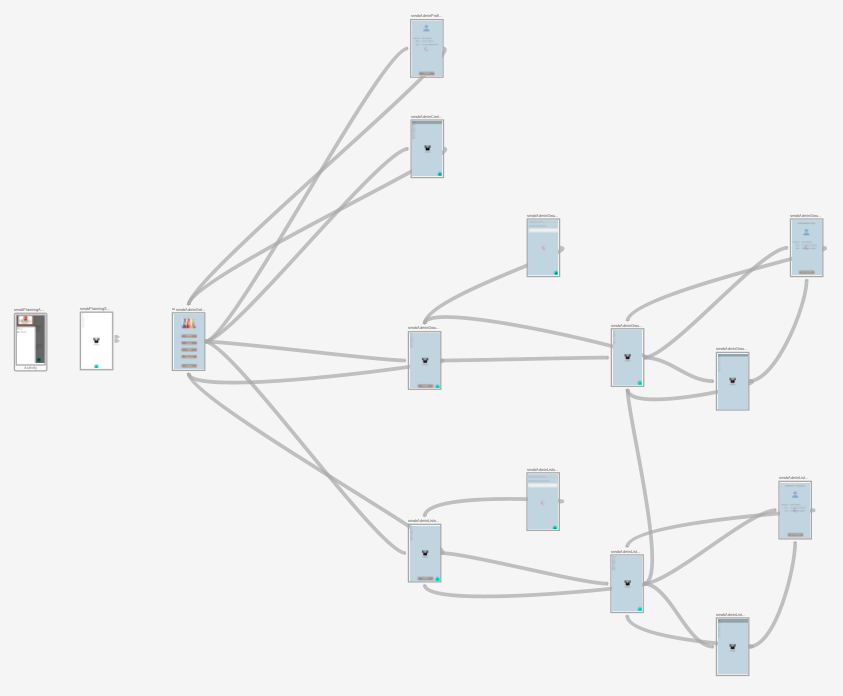
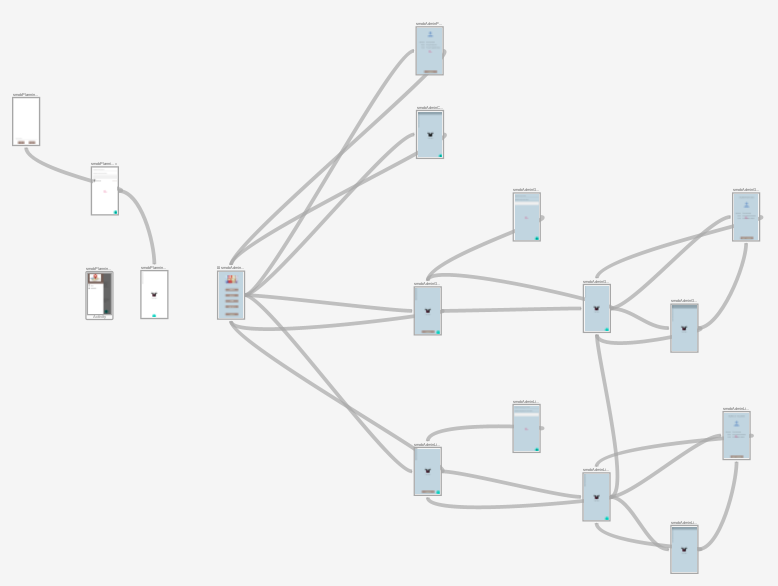
Adjusted overview document to reflect the addition of administration handling.

diff --git a/doc/SmobOverview.md b/doc/SmobOverview.md
@@ -17,6 +17,7 @@ See [Design](./Design.md) for more details about the design aspects of the app.
 
 <div style="display: flex; align-items: center; justify-content: space-around;">
   <img alt="ShopMob Login Screen" height="300" src="https://raw.githubusercontent.com/fwornle/ShopMob/main/doc/images/sm_login_0.PNG" title="Login Screen"/>
+  <img alt="ShopMob Login Screen" height="300" src="https://raw.githubusercontent.com/fwornle/ShopMob/main/doc/images/sm_login_1.png" title="Login Screen"/>
   <img alt="ShopMob Login Screen" height="300" src="https://raw.githubusercontent.com/fwornle/ShopMob/main/doc/images/sm_login.PNG" title="Login Screen"/>
   <img alt="ShopMob Login Screen" height="300" src="https://raw.githubusercontent.com/fwornle/ShopMob/main/doc/images/sm_login_2fa.PNG" title="Login Screen"/>
 </div>
@@ -35,12 +36,11 @@ as shown below.
 
 <div style="display: flex; align-items: center; justify-content: space-around;">
   <img alt="SmobLists screen" height="300" src="https://raw.githubusercontent.com/fwornle/ShopMob/main/doc/images/sm_lists.PNG" title="SmobLists"/>
+  <img alt="SmobLists screen" height="300" src="https://raw.githubusercontent.com/fwornle/ShopMob/main/doc/images/sm_lists_empty.png" title="SmobLists"/>
   <img alt="SmobLists screen, no data" height="300" src="https://raw.githubusercontent.com/fwornle/ShopMob/main/doc/images/sm_backend_missing_1.PNG" title="SmobLists, no data"/>
 </div>
 
-When the connection to the backend is established, the app downloads all shopping lists the user has subscribed to. Note that, 
-at the writing of this document (Jan 2022), user groups have yet to be established - at present, all shopping lists are 
-presented to all users on all devices.
+When the connection to the backend is established, the app downloads all shopping lists the user has subscribed to. New users have commonly not been added to any groups yet. This is indicated on the 'empty' list screen. 
 
 ##### SmobShop - the stores defined in ShopMob 
 
@@ -181,6 +181,82 @@ Alexa App (/Skill) does not provide shared access to the shopping list, nor mult
 A future extension of the app will provide an Alexa Skill to be able to "speak to Alexa" in order to control what items go 
 on which list (in the backend). Editing a shopping list via the app is therefore thought as a secondary use case, as it is much 
 more tedious to do so via the app as it will be using Alexa's ability to make sense of the user's utterances.
+
+##### Administration screens
+
+The user can switch to the _administaration_ screens of ShopMop via the drawer menu on the main (Smob lists) screen:
+
+<div style="display: flex; align-items: center; justify-content: space-around;">
+  <img alt="SmobProduct list" height="300" src="https://raw.githubusercontent.com/fwornle/ShopMob/main/doc/images/sm_drawer.PNG" title="SmobShop switch to admin mode"/>
+  <img alt="SmobProduct list" height="300" src="https://raw.githubusercontent.com/fwornle/ShopMob/main/doc/images/sm_admin.png" title="SmobAdmin selection screen"/>
+</div>
+
+The main administration screen allows selection of
+
+- Profile (currently logged in User - contact details)
+- Groups (management of SmobGroups)
+- Lists (management of SmobLists - the actual shopping lists)
+- Contacts (import of locally stored Contacts from the device the app runs on)
+
+There are quite a few administration screens, as can be seen from the following _navigration graph_.
+
+<div style="display: flex; align-items: center; justify-content: space-around;">
+  <img alt="SmobProduct Administration" height="300" src="https://raw.githubusercontent.com/fwornle/ShopMob/main/doc/images/nav_graph_admin.PNG" title="SmobShop administration screens"/>
+</div>
+
+
+
+###### Profile
+
+The _profile_ menu presents all information about the currently logged-in user. This information is obtained when logging into ShopMob. When employing login via a _federated ID provider_ this information is obtained from the chosen provider (eg. facebook, google, GitHub, ...).
+
+<div style="display: flex; align-items: center; justify-content: space-around;">
+  <img alt="SmobProduct list" height="300" src="https://raw.githubusercontent.com/fwornle/ShopMob/main/doc/images/sm_admin_profile.png" title="SmobAdmin Profile"/>
+</div>
+
+Affiliation of the currently logged-in user determines which SmobLists are shown in _planning_ and _shopping_ mode.
+
+###### Groups
+
+The _groups_ management screen displays all known groups (globally) and allows new groups to be created (plus button).
+
+<div style="display: flex; align-items: center; justify-content: space-around;">
+  <img alt="SmobProduct list" height="300" src="https://raw.githubusercontent.com/fwornle/ShopMob/main/doc/images/sm_admin_groups.png" title="SmobAdmin Groups"/>
+  <img alt="SmobProduct list" height="300" src="https://raw.githubusercontent.com/fwornle/ShopMob/main/doc/images/sm_admin_groups_new_1.png" title="SmobAdmin Groups"/>
+  <img alt="SmobProduct list" height="300" src="https://raw.githubusercontent.com/fwornle/ShopMob/main/doc/images/sm_admin_groups_new_2.png" title="SmobAdmin Groups"/>
+</div>
+
+Once a group has been selected, members can be added from the list of all users which are known to the app. At present (September 2022), this still presents all users known to ShopMob (globally). For privacy reasons, this will have to be modified in the future.
+
+<div style="display: flex; align-items: center; justify-content: space-around;">
+  <img alt="SmobProduct list" height="300" src="https://raw.githubusercontent.com/fwornle/ShopMob/main/doc/images/sm_admin_group_select_member.png" title="SmobAdmin Groups"/>
+  <img alt="SmobProduct list" height="300" src="https://raw.githubusercontent.com/fwornle/ShopMob/main/doc/images/sm_admin_groups_add_member_1.png" title="SmobAdmin Groups"/>
+  <img alt="SmobProduct list" height="300" src="https://raw.githubusercontent.com/fwornle/ShopMob/main/doc/images/sm_admin_groups_add_member_2.png" title="SmobAdmin Groups"/>
+</div>
+
+###### Lists
+
+The _lists_ management screen displays SmobLists of those groups, the currently logged-in user is a member of. 
+
+<div style="display: flex; align-items: center; justify-content: space-around;">
+  <img alt="SmobProduct list" height="300" src="https://raw.githubusercontent.com/fwornle/ShopMob/main/doc/images/sm_admin_lists.png" title="SmobAdmin Lists"/>
+  <img alt="SmobProduct list" height="300" src="https://raw.githubusercontent.com/fwornle/ShopMob/main/doc/images/sm_admin_list_groups.png" title="SmobAdmin Lists"/>
+  <img alt="SmobProduct list" height="300" src="https://raw.githubusercontent.com/fwornle/ShopMob/main/doc/images/sm_admin_list_groups_add.png" title="SmobAdmin Lists"/>
+</div>
+
+It allows new lists to be created as well as groups to be added to a list. All groups (globally) are displayed when selecting a group to be added to a list.  
+
+###### Contacts
+
+The _contacts_ management screen retrieves all contacts stored on the device ShopMop is currently running on (eg. phone contacts). The user has to grant permission to access contacts.  
+
+<div style="display: flex; align-items: center; justify-content: space-around;">
+  <img alt="SmobProduct contacts" height="300" src="https://raw.githubusercontent.com/fwornle/ShopMob/main/doc/images/sm_admin_contacts_permissions.png" title="SmobAdmin Contacts"/>
+  <img alt="SmobProduct contacts" height="300" src="https://raw.githubusercontent.com/fwornle/ShopMob/main/doc/images/sm_admin_contacts_table.png" title="SmobAdmin Contacts"/>
+</div>
+
+Swiping right on a contact adds them to the database of ShopMop users (September 2022: still needs to be implemented - at present, swiping right does nothing yet). The contact list is searchable.
+
 
 ##### Synchronization with the Backend
 
